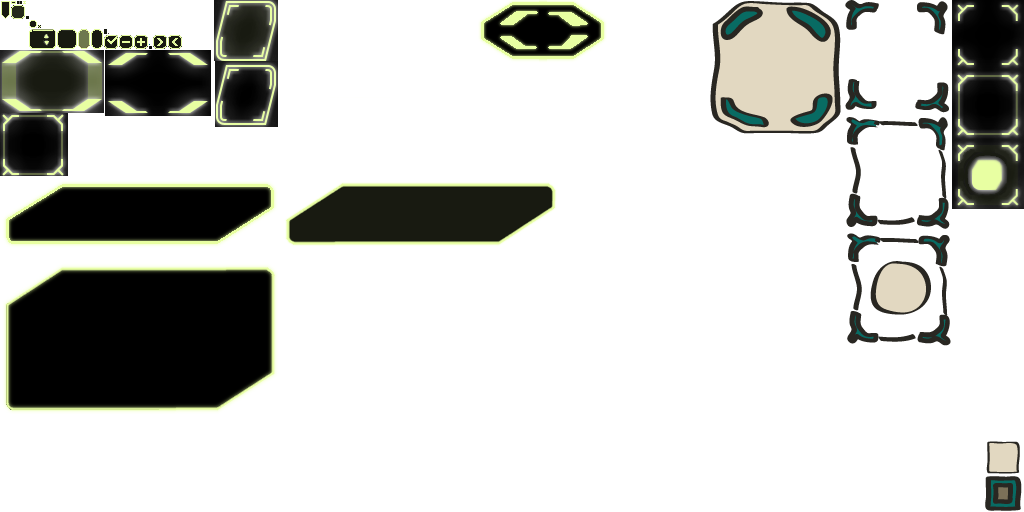
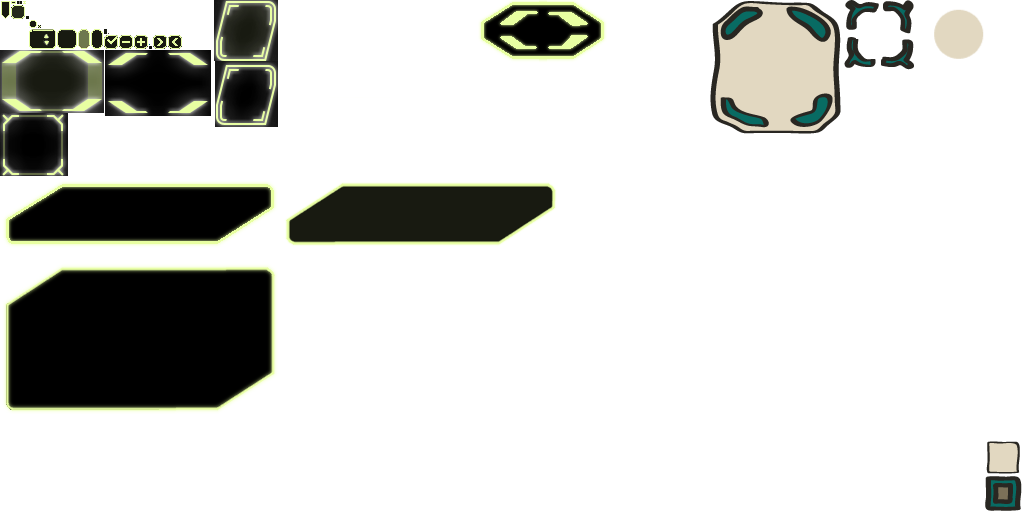
-Update overworld a bit

Changed region(s): [[0.8125, 0.0, 1.0, 0.6875]]

diff --git a/src/com/blastedstudios/ledge/ui/overworld/OverworldScreen.java b/src/com/blastedstudios/ledge/ui/overworld/OverworldScreen.java
@@ -20,7 +20,7 @@ import com.blastedstudios.ledge.world.being.Player;
 public class OverworldScreen extends AbstractScreen{
 	private static final float OFFSET_SCALAR = Properties.getFloat("world.level.offset.scalar", 20);
 	private final SpriteBatch spriteBatch = new SpriteBatch();
-	private final Sprite levelSprite, levelSelectedSprite;
+	private final Sprite backgroundSprite, levelSprite, levelCurrentSprite;
 	private final Player player;
 	private final OrthographicCamera camera = new OrthographicCamera(Gdx.graphics.getWidth(), Gdx.graphics.getHeight());
 	private LevelInformationWindow levelInfo;
@@ -28,7 +28,6 @@ public class OverworldScreen extends AbstractScreen{
 	private final GDXWorld gdxWorld;
 	private final File worldFile;
 	private final GDXRenderer gdxRenderer;
-	private final Sprite backgroundSprite;
 
 	public OverworldScreen(GDXGame game, Player player, GDXWorld gdxWorld, File worldFile, GDXRenderer gdxRenderer){
 		super(game, Properties.get("screen.skin","data/ui/uiskinGame.json"));
@@ -37,8 +36,8 @@ public class OverworldScreen extends AbstractScreen{
 		this.worldFile = worldFile;
 		this.gdxRenderer = gdxRenderer;
 		Gdx.app.log("OverworldScreen.<init>", "Loaded world successfully");
-		levelSprite = skin.getSprite("toggle-button");
-		levelSelectedSprite = skin.getSprite("toggle-button-checked");
+		levelSprite = skin.getSprite("overworld-level");
+		levelCurrentSprite = skin.getSprite("overworld-current");
 		backgroundSprite = new Sprite(gdxRenderer.getTexture(gdxWorld.getWorldProperties().get("background")));
 		backgroundSprite.setPosition(backgroundSprite.getWidth()/-2f, backgroundSprite.getHeight()/-2f);
 		for(GDXLevel level : gdxWorld.getLevels())
@@ -72,13 +71,13 @@ public class OverworldScreen extends AbstractScreen{
 		backgroundSprite.draw(spriteBatch);
 		for(GDXLevel level : gdxWorld.getLevels()){
 			if(player.isLevelAvailable(gdxWorld, level)){
-				Sprite sprite = levelSprite;
-				if(levelInfo != null && levelInfo.level == level)
-					sprite = levelSelectedSprite;
-				Vector2 position = level.getCoordinates().cpy().scl(OFFSET_SCALAR).
-						sub(sprite.getWidth()/2, sprite.getHeight()/2);
-				sprite.setPosition(position.x, position.y);
-				sprite.draw(spriteBatch);
+				Vector2 position = level.getCoordinates().cpy().scl(OFFSET_SCALAR);
+				levelSprite.setPosition(position.x, position.y);
+				levelSprite.draw(spriteBatch);
+				if(levelInfo != null && levelInfo.level == level){
+					levelCurrentSprite.setPosition(position.x, position.y);
+					levelCurrentSprite.draw(spriteBatch);
+				}
 			}
 		}
 		spriteBatch.end();
